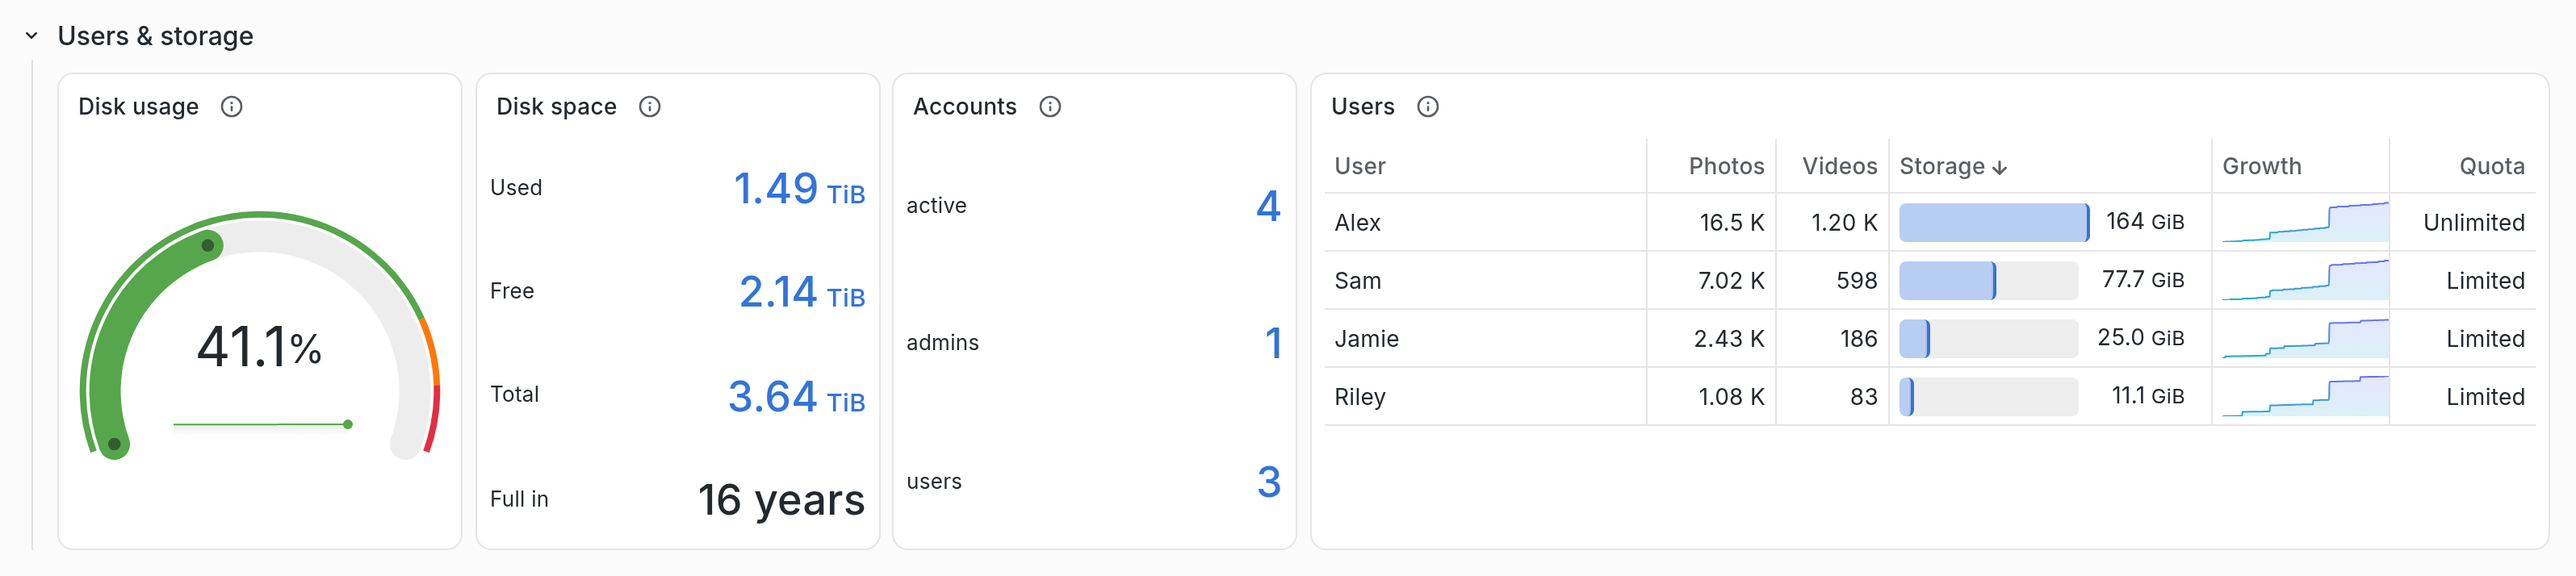
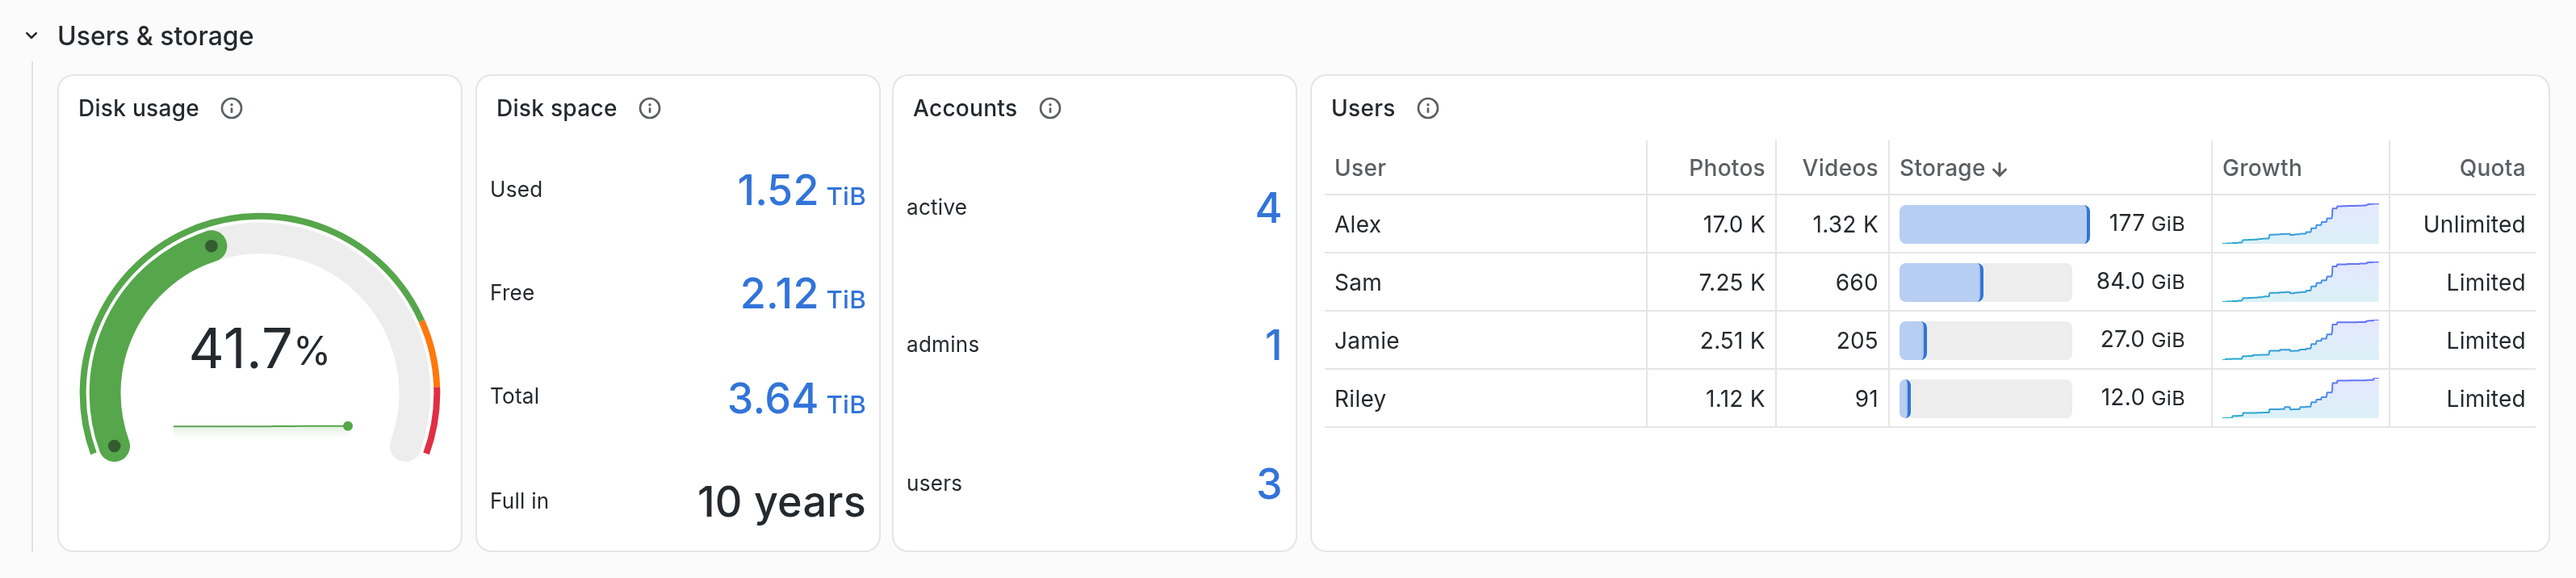
feat(grafana): redesign the overview and the demo library (#36)
The README's first screenshot looked flat: a month of near-empty days,
sparklines that drew one new album as a cliff, and one blue everywhere.

diff --git a/internal/exporter/demo_test.go b/internal/exporter/demo_test.go
@@ -18,9 +18,10 @@ import (
 	"github.com/prometheus/common/expfmt"
 )
 
-// The demo library behind the dashboard screenshots (grafana/demo) is made up: a family whose
-// phones back up every evening, who imported a camera card and a road trip during the month,
-// and whose latest backup is still being processed when the screenshots are taken.
+// The demo library behind the dashboard screenshots (grafana/demo) is made up: a family whose phones back up
+// every evening and who shoot most at weekends. During the month they throw a birthday party, import a camera
+// card, clear out duplicates and take a week-long road trip, and their latest backup is still being processed
+// when the screenshots are taken.
 
 const (
 	demoDays       = 30
@@ -102,7 +103,7 @@ var (
 		"GR LENS 18.3mm F2.8":                             0.004,
 	}
 	// Assets taken in each of the twelve years before the current one.
-	demoYears = []float64{380, 640, 910, 1150, 1560, 1970, 1650, 2280, 2830, 3060, 3190, 3260}
+	demoYears = []float64{430, 720, 1030, 1300, 1760, 2230, 1860, 2580, 3200, 3460, 3600, 3680}
 )
 
 var demoPeople = []labeledVal{
@@ -156,10 +157,10 @@ func newDemoQueues() []*demoQueue {
 	return []*demoQueue{
 		{name: "thumbnailGeneration", perAsset: 1, perHour: 1500, workers: 3, failed: 2},
 		{name: "metadataExtraction", perAsset: 1, perHour: 2400, workers: 5},
-		{name: "smartSearch", perAsset: 1, perHour: 320, workers: 2},
-		{name: "faceDetection", perAsset: 1, perHour: 260, workers: 2},
-		{name: "facialRecognition", perAsset: 0.6, perHour: 900, workers: 1},
-		{name: "ocr", perAsset: 1, perHour: 300, workers: 1},
+		{name: "smartSearch", perAsset: 1, perHour: 42, workers: 2},
+		{name: "faceDetection", perAsset: 1, perHour: 34, workers: 2},
+		{name: "facialRecognition", perAsset: 0.6, perHour: 90, workers: 1},
+		{name: "ocr", perAsset: 1, perHour: 38, workers: 1},
 		{name: "duplicateDetection", perAsset: 1, perHour: 1800, workers: 1},
 		{name: "videoConversion", perAsset: 0.07, perHour: 12, workers: 1, failed: 1},
 		{name: "sidecar"},
@@ -174,37 +175,66 @@ func newDemoQueues() []*demoQueue {
 }
 
 type demoTimeline struct {
-	start, now time.Time
-	home, trip []float64 // uploads in each hour since start
-	queues     []*demoQueue
-	last       time.Time
-	lastAdded  float64
-	r          *rand.Rand
+	start, now          time.Time
+	home, trip, removed []float64 // assets uploaded at home, uploaded on the trip, and deleted, in each hour since start
+	queues              []*demoQueue
+	last                time.Time
+	lastAdded           float64
+	r                   *rand.Rand
 }
+
+// Days before now on which the month's events happen; the trip runs from tripStart to tripEnd.
+const (
+	demoBirthday, demoCardImport, demoCleanup = 26, 21, 17
+	demoTripStart, demoTripEnd                = 13, 8
+)
 
 func newDemoTimeline(now time.Time) *demoTimeline {
 	r := rand.New(rand.NewPCG(2026, 10)) //nolint:gosec // a fixed seed keeps the demo reproducible.
 	start := now.Add(-demoDays * 24 * time.Hour).Truncate(time.Hour)
 	n := int(now.Sub(start).Hours()) + 1
 	tl := &demoTimeline{
-		start: start, now: now, home: make([]float64, n), trip: make([]float64, n),
+		start: start, now: now, home: make([]float64, n), trip: make([]float64, n), removed: make([]float64, n),
 		queues: newDemoQueues(), last: start, r: r,
 	}
+	daysAgo := func(i int) int { return int(now.Sub(start.Add(time.Duration(i)*time.Hour)).Hours()) / 24 }
+	mood := map[int]float64{}
 	for i := range n {
-		if h := start.Add(time.Duration(i) * time.Hour).Hour(); h >= 18 && h <= 22 {
-			tl.home[i] = float64(r.IntN(10))
-		} else if r.IntN(5) == 0 {
+		t := start.Add(time.Duration(i) * time.Hour)
+		d, h := daysAgo(i), t.Hour()
+		if _, ok := mood[d]; !ok {
+			mood[d] = 0.45 + 1.3*r.Float64()
+		}
+		away := d <= demoTripStart && d >= demoTripEnd
+		switch weekend := t.Weekday() == time.Saturday || t.Weekday() == time.Sunday; {
+		case away:
+			if h >= 20 && h <= 22 { // the phones back up from the hotel's Wi-Fi
+				tl.trip[i] = float64(55 + r.IntN(60))
+			}
+		case weekend && h >= 10 && h <= 20:
+			tl.home[i] = math.Round(mood[d] * float64(r.IntN(13)))
+		case h >= 18 && h <= 22:
+			tl.home[i] = math.Round(mood[d] * float64(r.IntN(10)))
+		case r.IntN(6) == 0:
 			tl.home[i] = float64(r.IntN(3))
 		}
+		switch {
+		case d == demoBirthday && h >= 15 && h <= 19:
+			tl.home[i] += float64(40 + r.IntN(25))
+		case d == demoCardImport && h == 21:
+			tl.home[i] += 380
+		case d == demoCleanup && h == 20:
+			tl.removed[i] = 160
+		case d == demoTripEnd && h == 23: // the camera's card, the night they get home
+			tl.trip[i] += 450
+		}
 	}
-	tl.home[n-22*24] += 380
-	tl.trip[n-12*24], tl.trip[n-12*24+1] = 610, 590
 	return tl
 }
 
-// uploaded counts uploads from start to t, prorating the hour in progress. A phone backup starting
-// twenty minutes before now keeps the queues busy while the screenshots render.
-func (tl *demoTimeline) uploaded(t time.Time) (home, trip float64) {
+// uploaded counts the assets uploaded and deleted from start to t, prorating the hour in progress. A phone backup
+// starting twenty minutes before now keeps the queues busy while the screenshots render.
+func (tl *demoTimeline) uploaded(t time.Time) (home, trip, removed float64) {
 	hours := t.Sub(tl.start).Hours()
 	for i := range tl.home {
 		f := min(1, hours-float64(i))
@@ -213,11 +243,12 @@ func (tl *demoTimeline) uploaded(t time.Time) (home, trip float64) {
 		}
 		home += tl.home[i] * f
 		trip += tl.trip[i] * f
+		removed += tl.removed[i] * f
 	}
 	if m := t.Sub(tl.now).Minutes() + 20; m > 0 {
 		home += 7 * m
 	}
-	return home, trip
+	return home, trip, removed
 }
 
 func (tl *demoTimeline) scrapeErrors(t time.Time) int64 {
@@ -232,22 +263,25 @@ func (tl *demoTimeline) scrapeErrors(t time.Time) int64 {
 
 // snapshotAt advances the queues to t, so it must be called with increasing times.
 func (tl *demoTimeline) snapshotAt(t time.Time) *snapshot {
-	home, trip := tl.uploaded(t)
+	home, trip, removed := tl.uploaded(t)
 	added := home + trip
+	busy := min(added-tl.lastAdded, 150) // refreshes slow down while Immich is busy with new uploads
 	for _, q := range tl.queues {
 		q.backlog = max(0, q.backlog+q.perAsset*(added-tl.lastAdded)-q.perHour*t.Sub(tl.last).Hours())
 	}
 	tl.last, tl.lastAdded = t, added
+	home -= removed
 
-	images, videos := math.Round(24610+0.93*added), math.Round(1882+0.07*added)
+	// Trips bring home more videos than everyday life does.
+	images, videos := math.Round(24610+0.93*home+0.86*trip), math.Round(1882+0.07*home+0.14*trip)
 	s := newSnapshot()
 	s.health.serverUp, s.health.scrapeSuccess, s.health.keyIsAdmin = 1, 1, 1
-	s.health.scrapeDurationSeconds = 1.1 + 0.6*tl.r.Float64()
+	s.health.scrapeDurationSeconds = 0.95 + 0.2*tl.r.Float64() + 0.004*busy
 	s.health.lastSuccessUnix = float64(t.Add(-41 * time.Second).Unix())
 	demoCollectors(s, tl.r)
 	demoServer(s, t, images, videos)
 	demoOps(s, t)
-	demoAssets(s, t.Year(), images, videos, home, trip)
+	demoAssets(s, t.Year(), images, videos, home, trip, removed)
 	demoCameras(s, images+videos)
 	demoGeo(s, home, trip)
 	demoPeopleAt(s, home, trip)
@@ -312,7 +346,7 @@ func demoOps(s *snapshot, t time.Time) {
 	o.lastBackupUnix, o.lastBackupBytes = set(float64(last.Unix())), set(48.1e6)
 }
 
-func demoAssets(s *snapshot, year int, images, videos, home, trip float64) {
+func demoAssets(s *snapshot, year int, images, videos, home, trip, removed float64) {
 	total := images + videos
 	m := &s.metadata
 	m.withPeople, m.withCamera = set(math.Round(0.41*total)), set(math.Round(0.87*total))
@@ -338,7 +372,8 @@ func demoAssets(s *snapshot, year int, images, videos, home, trip float64) {
 	}
 	a.byRating["unrated"] = unrated
 	a.favorite = set(math.Round(1284 + 0.03*(home+trip)))
-	a.archived, a.hidden, a.offline, a.trashed, a.locked = set(862), set(37), set(0), set(54), set(18)
+	a.archived, a.hidden, a.offline, a.locked = set(862), set(37), set(0), set(18)
+	a.trashed = set(math.Round(54 + removed))
 	a.motion = set(math.Round(2214 + 0.11*home))
 	a.notInAlbum = set(math.Round(9960 + 0.8*home + 0.1*trip))
 	a.encoded = set(videos - 2)

diff --git a/grafana/dashboard.go b/grafana/dashboard.go
@@ -168,13 +168,13 @@ func library(l *layout) {
 	l.section("Library", false)
 	l.line(4,
 		span(4, kpi("Assets", "Photos and videos in the library. The percentage is the change over the selected time range.",
-			"sum(max by (type) (immich_assets))")),
-		span(4, kpi("Photos", "Image assets.", `max(immich_assets{type="IMAGE"})`)),
-		span(4, kpi("Videos", "Video assets.", `max(immich_assets{type="VIDEO"})`).color(purple)),
+			"sum(max by (type) (immich_assets))", true)),
+		span(4, kpi("Photos", "Image assets.", `max(immich_assets{type="IMAGE"})`, true)),
+		span(4, kpi("Videos", "Video assets.", `max(immich_assets{type="VIDEO"})`, true).color(purple)),
 		span(4, kpi("Library size", "Storage used by the library's originals and generated files.",
-			"max(immich_server_usage_bytes)").unit("bytes")),
-		span(4, kpi("People", "Recognized people, named or not.", "max(immich_people)")),
-		span(4, kpi("Albums", "Albums, shared or private.", "sum(max by (shared) (immich_albums))")),
+			"max(immich_server_usage_bytes)", true).unit("bytes")),
+		span(4, kpi("People", "Recognized people, named or not.", "max(immich_people)", false)),
+		span(4, kpi("Albums", "Albums, shared or private.", "sum(max by (shared) (immich_albums))", false)),
 	)
 	l.line(9,
 		span(16, assetTypes(timeseries("New assets",
@@ -189,24 +189,25 @@ func library(l *layout) {
 			"counts every user's locked folder. Offline assets are missing on disk and turn red.",
 			latest("max(immich_assets_favorite)", "Favorites"),
 			latest("max(immich_assets_archived)", "Archived"),
-			latest("max(immich_assets_not_in_album)", "Not in an album"),
 			latest("max(immich_assets_motion)", "Motion photos"),
 			latest("max(immich_assets_encoded)", "Transcoded videos"),
 			latest("max(immich_assets_hidden)", "Hidden"),
 			latest("max(immich_assets_locked)", "Locked"),
 			latest("max(immich_assets_trashed)", "In trash"),
 			latest("max(immich_assets_offline)", "Offline")).
-			override("Offline", alarm(red)...)),
+			override("Offline", flag(red)...)),
 	)
 	l.line(7,
 		span(8, bars("Star ratings", "Rated assets by star rating. Unrated assets are left out so the scale stays readable.",
-			latest(`max by (rating) (immich_assets_by_rating{rating!="unrated"})`, "{{rating}} ★"))),
+			latest(`max by (rating) (immich_assets_by_rating{rating!="unrated"})`, "{{rating}} ★")).
+			color(gold).thresholds(gold)),
 		span(8, rings("Organized", "Share of assets with a location, share of assets in at least one album, "+
 			"and share of recognized people with a name.",
 			latest("max(immich_assets_geotagged) / clamp_min(sum(max by (type) (immich_assets)), 1)", "Geotagged"),
 			latest("1 - max(immich_assets_not_in_album) / clamp_min(sum(max by (type) (immich_assets)), 1)", "In an album"),
 			latest("max(immich_people_named) / clamp_min(max(immich_people), 1)", "People named"))),
-		span(8, timeseries("Library size", "Storage used by the library over time.", seriesStyle{noLegend: true, signed: true},
+		span(8, timeseries("Library size", "Storage used by the library over time.",
+			seriesStyle{noLegend: true, signed: true, smooth: true},
 			series("max(immich_server_usage_bytes)", "Library")).unit("bytes").color(blue)),
 	)
 }
@@ -226,13 +227,14 @@ func storageByType() *panel {
 func assetsByYear() *panel {
 	p := newPanel("barchart", "Assets by year", "Assets by the year they were taken (EXIF capture date).",
 		frame("max by (year) (immich_assets_by_year)"))
-	p.set("color", fixed(blue)).set("thresholds", steps(blue)).set("custom", obj{
+	// Shaded by count on the map's blue-to-purple scale, so the busiest years stand out.
+	p.set("color", obj{"mode": "continuous-BlPu"}).set("thresholds", steps(blue)).set("custom", obj{
 		"lineWidth": 0, "fillOpacity": 80, "gradientMode": "none", "axisPlacement": "auto", "axisLabel": "",
 		"axisBorderShow": false, "axisCenteredZero": false, "axisSoftMin": 0, "scaleDistribution": obj{"type": "linear"},
 		"thresholdsStyle": obj{"mode": "off"}, "hideFrom": hideNothing(),
 	})
 	p.Options = obj{
-		"orientation": "vertical", "xField": "year", "showValue": "always", "stacking": "none",
+		"orientation": "vertical", "xField": "year", "colorByField": "Assets", "showValue": "always", "stacking": "none",
 		"groupWidth": 0.7, "barWidth": 0.8, "barRadius": 0.05, "fullHighlight": false,
 		"xTickLabelRotation": 0, "xTickLabelSpacing": 0, "text": obj{"valueSize": 11},
 		"legend":  obj{"showLegend": false, "displayMode": "list", "placement": "bottom", "calcs": []string{}},
@@ -342,7 +344,7 @@ func people(l *layout) {
 			"topk(15, max by (person) (immich_person_assets))", col("person", "Person"))),
 		span(12, timeseries("Naming progress", "Named versus unnamed people over time.", seriesStyle{stacked: true},
 			series("max(immich_people_named)", "Named"), series("max(immich_people_unnamed)", "Unnamed")).
-			override("Named", prop("color", fixed(blue))).override("Unnamed", prop("color", fixed(text)))),
+			override("Named", prop("color", fixed(blue))).override("Unnamed", prop("color", fixed(purple)))),
 	)
 }
 
@@ -366,7 +368,7 @@ func albums(l *layout) {
 			latest("max(immich_shared_links_password_protected)", "Password protected"),
 			latest("max(immich_shared_links_never_expire)", "Never expire"),
 			latest("max(immich_shared_links_expired)", "Expired")).
-			override("Never expire", alarm(orange)...)),
+			override("Never expire", flag(orange)...)),
 		span(4, bars("Partner sharing", "Partner libraries shared with you (incoming) and by you (outgoing).",
 			latest("max by (direction) (immich_partners)", "{{direction}}"))),
 	)
@@ -605,9 +607,9 @@ func integrity() *panel {
 		latest(`max(immich_integrity_issues{type="missing_file"})`, "Missing files"),
 		latest(`max(immich_integrity_issues{type="checksum_mismatch"})`, "Checksum mismatches"),
 		latest(`max(immich_integrity_issues{type="untracked_file"})`, "Untracked files")).
-		override("Missing files", alarm(red)...).
-		override("Checksum mismatches", alarm(red)...).
-		override("Untracked files", alarm(orange)...)
+		override("Missing files", flag(red)...).
+		override("Checksum mismatches", flag(red)...).
+		override("Untracked files", flag(orange)...)
 }
 
 func backups() *panel {

diff --git a/grafana/design.go b/grafana/design.go
@@ -11,11 +11,12 @@ import (
 // Grafana releases, which older releases ignore, need no support here.
 type obj = map[string]any
 
-// Colors carry meaning: blue for volume, purple for a second category, text for neutral counts,
-// and green, orange and red only for health.
+// Colors carry meaning: blue for volume, purple for a second category, gold for star ratings, text for neutral
+// counts, and green, orange and red only for health.
 const (
 	blue   = "blue"
 	purple = "purple"
+	gold   = "semi-dark-yellow"
 	green  = "green"
 	orange = "orange"
 	red    = "red"
@@ -219,12 +220,15 @@ func status(title, desc, expr, ok, bad string) *panel {
 		mappings(when(0, bad, red), when(1, ok, green)).thresholds(red, at(1, green))
 }
 
-// kpi is a headline number with its trend and its change over the selected range.
-func kpi(title, desc, expr string) *panel {
+// kpi is a headline number with its change over the selected range and, for a number that grows steadily, a
+// sparkline of the range. A sparkline scales to its own range, so on a count that rarely moves one new album
+// would draw a cliff.
+func kpi(title, desc, expr string, sparkline bool) *panel {
 	p := stat(title, desc, series(expr, "")).color(blue)
-	p.Options["colorMode"] = "none"
-	p.Options["graphMode"] = "area"
 	p.Options["showPercentChange"] = true
+	if sparkline {
+		p.Options["graphMode"] = "area"
+	}
 	return p
 }
 
@@ -239,11 +243,15 @@ func grid(title, desc string, targets ...target) *panel {
 type seriesStyle struct {
 	stacked, bars, noLegend bool
 	signed                  bool // the axis may go below zero
+	smooth                  bool // a curve rather than straight segments, for totals that only grow
 	lineWidth               int
 }
 
 func timeseries(title, desc string, style seriesStyle, targets ...target) *panel {
-	lineWidth, fill, gradient, drawStyle, stacking := 2, 16, "opacity", "line", "none"
+	lineWidth, fill, gradient, drawStyle, stacking, interpolation := 2, 16, "opacity", "line", "none", "linear"
+	if style.smooth {
+		fill, interpolation = 28, "smooth"
+	}
 	if style.lineWidth > 0 {
 		lineWidth = style.lineWidth
 	}
@@ -256,7 +264,7 @@ func timeseries(title, desc string, style seriesStyle, targets ...target) *panel
 		lineWidth, fill, gradient, drawStyle = 0, 80, "none", "bars"
 	}
 	custom := obj{
-		"drawStyle": drawStyle, "lineInterpolation": "linear", "lineWidth": lineWidth, "fillOpacity": fill,
+		"drawStyle": drawStyle, "lineInterpolation": interpolation, "lineWidth": lineWidth, "fillOpacity": fill,
 		"gradientMode": gradient, "showPoints": "never", "pointSize": 4, "spanNulls": true, "insertNulls": false,
 		"barAlignment": 0, "stacking": obj{"mode": stacking, "group": "A"}, "axisPlacement": "auto", "axisLabel": "",
 		"axisBorderShow": false, "axisCenteredZero": false, "scaleDistribution": obj{"type": "linear"},
@@ -298,26 +306,32 @@ func rings(title, desc string, targets ...target) *panel {
 		"reduceOptions": reduceLast(), "orientation": "auto", "showThresholdLabels": false, "showThresholdMarkers": false,
 		"sizing": "auto", "minVizWidth": 60, "minVizHeight": 60,
 		"shape": "circle", "barShape": "rounded", "barWidthFactor": 0.35, "sparkline": false, "endpointMarker": "none",
-		"effects": obj{"gradient": false},
+		"effects": obj{"gradient": true},
 	}
 	return p
 }
 
-// bars is a horizontal bar gauge: one bar per series, all in one color on a common scale.
+// bars is a horizontal bar gauge: one solid bar per series, all in one color on a common scale.
 func bars(title, desc string, targets ...target) *panel {
 	p := newPanel("bargauge", title, desc, targets...)
 	p.set("unit", "short").set("min", 0).set("color", fixed(blue)).set("thresholds", steps(blue))
 	p.Options = obj{
-		"reduceOptions": reduceLast(), "orientation": "horizontal", "displayMode": "basic", "valueMode": "text",
+		"reduceOptions": reduceLast(), "orientation": "horizontal", "displayMode": "gradient", "valueMode": "text",
 		"namePlacement": "left", "showUnfilled": true, "sizing": "manual",
 		"minVizWidth": 8, "minVizHeight": 16, "maxVizHeight": 22,
 	}
 	return p
 }
 
-// alarm turns one bar or cell of a neutral panel to color once it reaches 1.
+// alarm turns one cell of a neutral table to color once it reaches 1.
 func alarm(color string) []obj {
 	return []obj{prop("color", obj{"mode": "thresholds"}), prop("thresholds", steps(text, at(1, color)))}
+}
+
+// flag colors one bar of a bar gauge once it reaches 1. Below that the bar is transparent: a bar gauge draws even a
+// zero as a sliver, which a fixed color would paint as an alarm.
+func flag(color string) []obj {
+	return []obj{prop("color", obj{"mode": "thresholds"}), prop("thresholds", steps("transparent", at(1, color)))}
 }
 
 func table(title, desc string, targets ...target) *panel {
